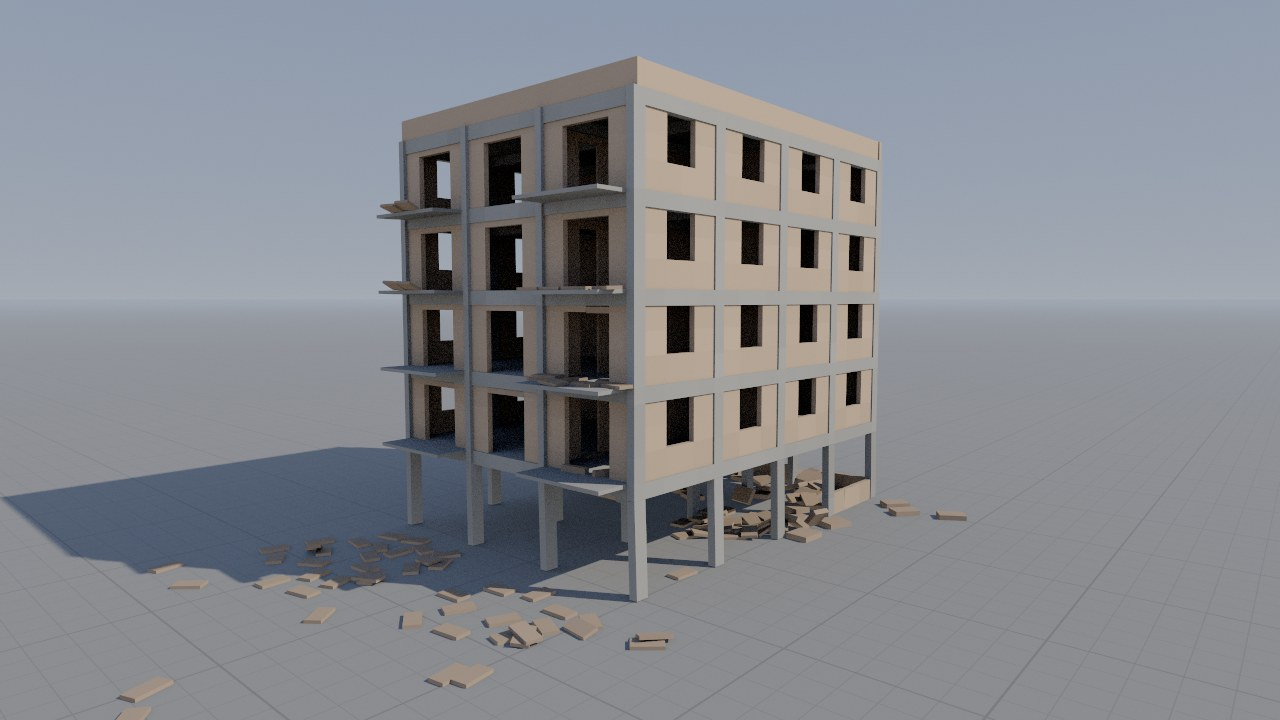
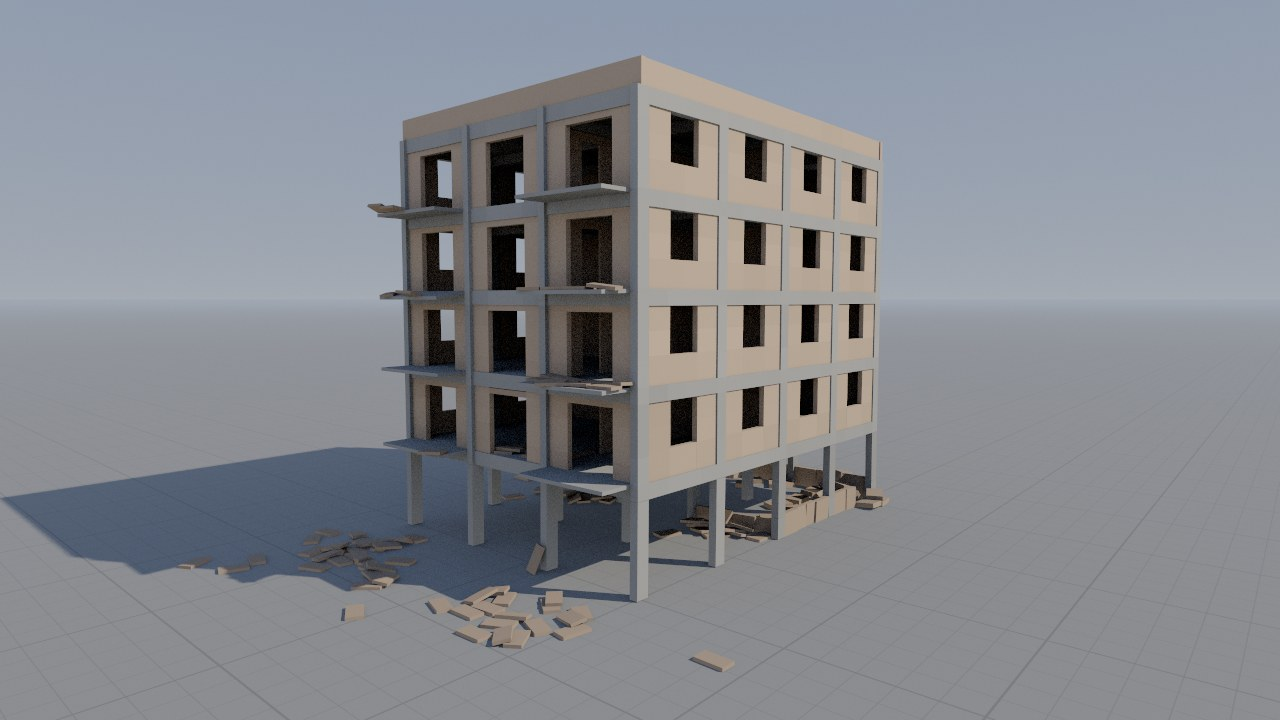
Yikim: firlayan tuglalar duzeltildi (ic ice gecme itme siniri 2 -> 0,5 m/s)
- Ezilen bagla kirise gomulen hafif blok, son lif kopunca 2 m/s sinirla itilip 3-4 m/s firliyordu
- Binadan firlayan tugla (1 m ustu, karede > 2 m/s): Pazarcik x1 93 -> 1, Antakya cokus oncesi 44 -> 0
- Testler 24/26, her kaydin sonucu ayni; tani araci test.kick, test.kick_min_y; phys.max_depenetration ayari
- README gorselleri yeni fizikle yeniden cekildi, tablolar guncellendi

Claude-Session: https://claude.ai/code/session_01YE74r9qkYvqsLDasqyGsSV

diff --git a/src/yikim/yikim_app.cpp b/src/yikim/yikim_app.cpp
@@ -25,6 +25,7 @@
 #include <cstdlib>
 #include <ctime>
 #include <filesystem>
+#include <set>
 #include <string>
 #include <vector>
 
@@ -75,6 +76,7 @@ struct YikimApp {
         world.params.muDynamic = cfg.f("phys.mu_dynamic", world.params.muDynamic);
         world.params.restitution = cfg.f("phys.restitution", world.params.restitution);
         world.params.dampAlpha = cfg.f("phys.damp_alpha", world.params.dampAlpha);
+        world.params.maxDepenetration = cfg.f("phys.max_depenetration", world.params.maxDepenetration);
     }
     void build() {
         if (cfg.values.count("scene") && cfg.values.at("scene") == "cerceve") {
@@ -243,6 +245,10 @@ static int runClip(YikimApp& app, double seconds, double still, unsigned spp, co
     float fastest = 0;
     int fastestBody = -1;
     double fastestT = 0, fastestY = 0;
+    std::vector<float3> kickPrev;
+    std::set<int> kickBodies, kickUpBodies;
+    int kicks = 0;
+    float kickUp = 0, kickSide = 0;
     for (int k = 0; k <= frames; ++k) {
         const double t = k * dt;
         app.events(t);
@@ -316,6 +322,48 @@ static int runClip(YikimApp& app, double seconds, double still, unsigned spp, co
                                     pi.n.x, pi.n.y, pi.n.z);
                 }
             prevVel = app.world.vel;
+        }
+        // diagnosis (test.kick = dv m/s): brick pieces whose speed relative to the ground jumps by more than dv in one
+        // frame (a throw, not a fall: gravity adds 0.16 m/s a frame). The first test.kick_n are shown with what touches them.
+        if (app.cfg.f("test.kick", 0.0f) > 0.0f) {
+            const float dvMin = app.cfg.f("test.kick", 0.0f);
+            if (kickPrev.size() == app.world.vel.size()) {
+                const float3 g0 = app.world.vel[0], g0p = kickPrev[0];
+                for (size_t i = 1; i < app.world.vel.size(); ++i) {
+                    if (app.world.kinematic[i] || app.world.info[i].tag != 3) continue;
+                    if (app.world.pos[i].y - app.world.pos[0].y < app.cfg.f("test.kick_min_y", 0.0f)) continue;   // e.g. not the debris on the ground
+                    const float3 vr = app.world.vel[i] - g0, vp = kickPrev[i] - g0p;
+                    const float gain = length(vr) - length(vp);
+                    kickUp = std::max(kickUp, vr.y);
+                    kickSide = std::max(kickSide, std::sqrt(vr.x * vr.x + vr.z * vr.z));
+                    if (vr.y > 2.0f) kickUpBodies.insert(int(i));
+                    if (gain <= dvMin) continue;
+                    kickBodies.insert(int(i));
+                    ++kicks;
+                    if (kicks > app.cfg.i("test.kick_n", 8)) continue;
+                    const int b = int(i);
+                    std::printf("FIRLAMA t=%.3f govde %d (%.0f kg) y %.2f: |v| %.2f -> %.2f m/s, v (%.2f %.2f %.2f) -> (%.2f %.2f %.2f), |w| %.1f rad/s\n", t, b,
+                                app.world.info[b].mass, app.world.pos[b].y, length(vp), length(vr), vp.x, vp.y, vp.z, vr.x, vr.y, vr.z,
+                                length(app.world.angVel[b]));
+                    std::vector<unsigned> fl;
+                    std::vector<float3> fo;
+                    app.world.fibres(fl, fo);
+                    size_t fi = 0;
+                    for (const InterfaceDesc& d : app.world.interfaceDescs) {
+                        int alive = 0;
+                        float fmax = 0;
+                        for (size_t q = 0; q < d.fibers.size(); ++q, ++fi)
+                            if (!(fl[fi] & 4u)) { ++alive; fmax = std::max(fmax, length(fo[fi])); }
+                        if ((d.a == b || d.b == b) && alive)
+                            std::printf("    arayuz %d-%d: %d canli lif, en buyuk kuvvet %.0f N\n", d.a, d.b, alive, fmax);
+                    }
+                    for (const PhysWorld::PatchInfo& pi : app.world.patchesOf(b))
+                        std::printf("    temas: govde %d (tur %d, %.0f kg, v (%.2f %.2f %.2f)), normal kuvvet %.0f N, n (%.2f %.2f %.2f)\n", pi.other,
+                                    pi.other > 0 ? app.world.info[pi.other].tag : -1, app.world.info[pi.other].mass, app.world.vel[pi.other].x - g0.x,
+                                    app.world.vel[pi.other].y - g0.y, app.world.vel[pi.other].z - g0.z, pi.force, pi.n.x, pi.n.y, pi.n.z);
+                }
+            }
+            kickPrev = app.world.vel;
         }
         // the fastest piece: a fall from the roof is ~17 m/s; much more is energy the solver made up
         for (size_t i = 1; i < app.world.vel.size(); ++i) {
@@ -395,6 +443,9 @@ static int runClip(YikimApp& app, double seconds, double still, unsigned spp, co
     std::printf("%d kare; fizik ort. %.2f ms/kare, goruntu ort. %.1f ms/kare\n", shots, physMs / std::max(1, frames), rendMs / std::max(1, shots));
     std::printf("cati: zemine gore en buyuk yatay oteleme %.3f m (t=%.2f s, yukseklige oran %.2f%%), en buyuk cokme %.3f m\n", maxDrift, tMaxDrift,
                 100.0 * maxDrift / roofY, maxDrop);
+    if (app.cfg.f("test.kick", 0.0f) > 0.0f)
+        std::printf("firlama (tugla, zemine gore, karede > %.1f m/s hizlanma): %d olay, %zu parca; yukari > 2 m/s: %zu parca; en buyuk yukari %.2f m/s, "
+                    "en buyuk yatay %.2f m/s\n", app.cfg.f("test.kick", 0.0f), kicks, kickBodies.size(), kickUpBodies.size(), kickUp, kickSide);
     {
         const double fall = std::sqrt(2.0 * 9.81 * (roofY + 1.0));
         std::printf("en hizli parca: %.1f m/s (govde %d, tur %d, t=%.2f s, y=%.1f m); catidan serbest dusus %.1f m/s\n", fastest, fastestBody,

diff --git a/src/yikim/phys.h b/src/yikim/phys.h
@@ -48,7 +48,10 @@ struct PhysParams {
     float muStatic = 0.7f, muDynamic = 0.6f;
     float restitution = 0.15f;
     float slop = 0.0005f;          // m of penetration tolerated (resting contacts do not chatter)
-    float maxDepenetration = 2.0f; // m/s: a deep overlap is resolved at most this fast (spawned or tunnelled bodies)
+    // m/s: a deep overlap is resolved at most this fast. 2 m/s threw light brick blocks out of the shaking building
+    // (a parapet's crushed bond lets it sink 2 cm into the beam, the overlap is pushed out when the last fibre goes;
+    // measured, Pazarcik x1: 116 blocks kicked by more than 2 m/s in a frame; 0.5: 15, mostly struck by falling debris)
+    float maxDepenetration = 0.5f;
     float relax = 1.0f;            // relaxation of a body's pairs (Jacobi between pairs)
     int interfaceIters = 2;        // colour passes over the interfaces per substep
     int contactIters = 4;          // per pair: averaged normal pass + patch static friction, repeated

diff --git a/src/yikim/yikim_tests.cpp b/src/yikim/yikim_tests.cpp
@@ -37,6 +37,7 @@ void applyParams(PhysWorld& w) {   // solver settings from scenes/yikim.cfg (and
     w.params.contactIters = g_cfg->i("phys.contact_iters", w.params.contactIters);
     w.params.interfaceIters = g_cfg->i("phys.interface_iters", w.params.interfaceIters);
     w.params.dampAlpha = g_cfg->f("phys.damp_alpha", w.params.dampAlpha);
+    w.params.maxDepenetration = g_cfg->f("phys.max_depenetration", w.params.maxDepenetration);
 }
 
 double kinetic(const PhysWorld& w) {

diff --git a/docs/yikim/DURUM.md b/docs/yikim/DURUM.md
@@ -3,6 +3,13 @@
 > Tek kaynak durum panosu. Plan ve Özcan'ın sözleri `docs/yikim/PLAN.md`'de.
 
 ## Şu an
+- **2026-10-02 · Fırlayan tuğlalar düzeltildi.** Özcan (kapanıştan sonra): *"Fizik kısmı tamam, çok iyi olmuş. [...]
+  Yıkılma fiziği hem çok gerçekçi hem de tutarlı hissettiriyor. Sadece arada hafif parçalar uçuşabiliyor, kolonlar
+  değil de kahverengimsi duvar gibi olanlar. Onlar her zaman değil bazen sallanırken düşmek yerine fırlıyor. Fizik
+  anlamında sadece onu düzeltebilirsin."* Sebep: iç içe geçmeyi itme hızı sınırı (2 m/s) hafif bloğu fırlatıyordu
+  (ayrıntı "Kapanışta öğrenilenler"). `phys.max_depenetration` 2 → **0,5 m/s**. Binadan fırlayan tuğla Pazarcık ×1'de
+  93 → 1, Antakya çöküş öncesi 44 → 0, Yarımca ×1 13 → 0, Bayraklı 3 → 0. Testler 24/26, her kaydın sonucu aynı.
+  Yan yana klip: `captures/yikim/y3_firlama_once_sonra_pazarcik.mp4`. Tanı aracı: `--set test.kick=2 test.kick_min_y=1`.
 - **2026-10-02 · 🏁 Sahne 3 kapandı.** Özcan (Y2 klibi üzerine): *"Tamam. Video yine iyi duruyor. Artık son eklemeleri,
   düzenlemeleri yapıp tamamlayabilirsin."* Kapanışta yapılanlar:
   - **Canlı pencere hızlandı: 28-30 → 55-75 fps** (1920×1080, 6 örnek; koşudan koşuya, fizik saniyede en çok 60 adım). Fizik bir sonraki adımı hesaplarken görüntü
@@ -139,6 +146,23 @@ taşıyıcı sistemin en üst parçaları (döşeme, kiriş, kolon başı).
 | 2023 Pazarcık ×1,25 | | tam göçme, çatı 12,4 m iner |
 | 2023 Pazarcık ×1,5 | | tam göçme, çatı 12,9 m iner |
 
+**Güncel (10-02, iç içe geçme itme sınırı 0,5 m/s; aynı ölçüm; son sütun: binadan fırlayan tuğla, yerden 1 m'nin
+üstünde bir karede 2 m/s'den fazla hızlanan, eski sınır → yeni):**
+
+| Kayıt | En büyük öteleme | Sonuç | Fırlayan tuğla |
+|---|---|---|---|
+| 2020 Bayraklı ×1 | %0,29 | ayakta | 3 → 0 |
+| 1999 İzmit ×1 | %0,26 | ayakta | |
+| 1999 Yarımca ×1 | %0,70 | ayakta | 13 → 0 |
+| 1999 Yarımca ×1,5 | | tam göçme, çatı 12,5 m iner | |
+| 2023 Antakya ×1 | | tam göçme, çatı 12,3 m iner | çöküşten önce (16,6 sn) 44 → 0 |
+| 2023 Pazarcık ×1 | %0,81 | ağır hasarla ayakta | 93 → 1 |
+| 2023 Pazarcık ×1,25 | | tam göçme, çatı 12,1 m iner | |
+| 2023 Pazarcık ×1,5 | | tam göçme, çatı 12,5 m iner | |
+
+Göçmelerde yerdeki enkazda hâlâ "fırlama" sayılıyor (Pazarcık ×1'de yerden 1 m'nin altında 15 parça): düşen blok yerde
+yatan bloğa çarpınca alttaki bir kenarı üstünde dönerek kalkıyor (tırmık gibi). Fiziksel olarak mümkün; dokunulmadı.
+
 Testler 24/26 (periyot 0,448 s, sönüm 0,053: değişmedi).
 
 Bina testi: sönüm (serbest titreşim, tepelerin logaritmik azalması, en küçük kareler) **0,053**; periyot 0,449 s
@@ -225,6 +249,14 @@ yumuşaklığı Y1'de doğal periyotla ölçülecek; gerekirse alt adım artar.
 - **Taşıyıcıyı ölç, üstünde duranı değil:** "çatı" en üstteki parçaların ortalamasıydı, yani tuğla korkuluk; savrulan
   korkuluk, ayakta duran binada "çatı 9,7 m çöktü" diye okundu. Kare bakınca bina ayaktaydı. Ölçü artık taşıyıcı
   sistemin en üst parçalarında.
+
+- **İç içe geçmeyi itmek bir şey fırlatmamalı (Özcan gördü, 10-02):** temas, derin iç içe geçmeyi alt adım başına
+  `maxDepenetration·h` kadar itiyor, hız geçişi de ayrılma hızını o sınıra kırpıyordu: 2 m/s. Ağır parçada fark
+  edilmez; 154 kg'lık korkuluk bloğu kirişe ~2 cm gömülüyor (bağlı çiftte temas ancak `BOND_OVERLAP` = 2 cm'den sonra
+  devrede, tuğla bağı ezilirken blok o kadar batıyor), son lif kopunca bağ kalkıyor ve gömülme bir anda itiliyor:
+  blok 3-4 m/s ile yukarı, dönerek. Tanıdaki iz: temas kuvveti 760-880 kN = 154 kg × 2 m/s / h (sınırın ta kendisi).
+  0,5 m/s'de gömülme ~3 karede çözülür, oluşan hız gözle görülmez; testler (yığın, düşme, gömülme, enerji) ve bina
+  sonuçları değişmedi. 1 m/s ara değeri Pazarcık ×1'i göçürdü (eşik kaotik), 0,25 ile 0,5 arasında fark küçük.
 
 ## Deprem kayıtları (`assets/deprem/`, `src/yikim/quake.*`)
 ESM (esm-db.eu, işlenmiş MP, hesapsız indirilebilir) ve AFAD TADAS (misafir girişi). İvme cm/s², hepsi ayrıştırılıp

diff --git a/README.md b/README.md
@@ -185,12 +185,12 @@ What the building does (roof drift relative to the ground, deterministic):
 | Record | Peak ground acceleration | Result |
 | --- | --- | --- |
 | 2020 Bayraklı ×1 | 0.12 g | stands, drift 0.29 % |
-| 1999 İzmit ×1 | 0.25 g | stands, 0.28 % |
-| 1999 Yarımca ×1 | 0.34 g | stands, 0.91 % |
-| 1999 Yarımca ×1.5 | | soft-storey collapse, the roof comes down 13.0 m |
-| 2023 Antakya ×1 | 0.67 g | collapses, the roof comes down 12.8 m |
-| 2023 Pazarcık ×1 | 2.25 g (one component) | stands, heavily damaged: 1.34 % drift that stays, parapets and infill thrown off |
-| 2023 Pazarcık ×1.25 | | collapses, the roof comes down 12.4 m |
+| 1999 İzmit ×1 | 0.25 g | stands, 0.26 % |
+| 1999 Yarımca ×1 | 0.34 g | stands, 0.70 % |
+| 1999 Yarımca ×1.5 | | soft-storey collapse, the roof comes down 12.5 m |
+| 2023 Antakya ×1 | 0.67 g | collapses, the roof comes down 12.3 m |
+| 2023 Pazarcık ×1 | 2.25 g (one component) | stands, heavily damaged: drift 0.81 %, parapets and much of the infill fall |
+| 2023 Pazarcık ×1.25 | | collapses, the roof comes down 12.1 m |
 
 Pazarcık ×1 sits right at the threshold: it brought the building down until a modelling bug was fixed at the very end
 (below), and it stands after it. A building at its limit is chaotic; that is why the solver had to become
@@ -221,6 +221,12 @@ Decisions worth reading:
   brick parapets. A piece's own steel ratio (the balconies') leaked into the brick it touched: bars with zero
   strength that still stiffened the parapet's base 1.8 times, and raised the force that cracks it by as much. No test
   and no clip had shown it. Fixing it moved Pazarcık ×1 from collapse to standing.
+- **Pushing an overlap out must not throw things.** Overlaps were pushed out at up to 2 m/s. A brick parapet's
+  crushing bond lets it sink a couple of centimetres into the beam; when its last fibre went, the overlap was pushed
+  out at once and a 150 kg block left upwards at 3 to 4 m/s (Özcan saw it: light pieces flying instead of falling).
+  At 0.5 m/s, bricks thrown from the building (more than 2 m/s gained in one frame, above 1 m) went from 93 to 1
+  under Pazarcık and from 44 to 0 before Antakya's collapse; the tests and what each record does to the building
+  stayed the same.
 - **Measure the structure, not what stands on it.** "Roof drift" was averaged over the highest pieces, which were the
   brick parapet; a parapet thrown off read as the roof falling 9.7 m from a building still standing.
 

diff --git a/README.tr.md b/README.tr.md
@@ -181,12 +181,12 @@ Binanın yaptığı (çatının zemine göre en büyük ötelemesi, deterministi
 | Kayıt | Yatay tepe ivme | Sonuç |
 | --- | --- | --- |
 | 2020 Bayraklı ×1 | 0,12 g | ayakta, öteleme %0,29 |
-| 1999 İzmit ×1 | 0,25 g | ayakta, %0,28 |
-| 1999 Yarımca ×1 | 0,34 g | ayakta, %0,91 |
-| 1999 Yarımca ×1,5 | | yumuşak kat göçmesi, çatı 13,0 m iner |
-| 2023 Antakya ×1 | 0,67 g | göçer, çatı 12,8 m iner |
-| 2023 Pazarcık ×1 | 2,25 g (bir bileşen) | ağır hasarla ayakta: kalıcı %1,34 öteleme, korkuluklar ve dolgu duvarlar savrulur |
-| 2023 Pazarcık ×1,25 | | göçer, çatı 12,4 m iner |
+| 1999 İzmit ×1 | 0,25 g | ayakta, %0,26 |
+| 1999 Yarımca ×1 | 0,34 g | ayakta, %0,70 |
+| 1999 Yarımca ×1,5 | | yumuşak kat göçmesi, çatı 12,5 m iner |
+| 2023 Antakya ×1 | 0,67 g | göçer, çatı 12,3 m iner |
+| 2023 Pazarcık ×1 | 2,25 g (bir bileşen) | ağır hasarla ayakta: öteleme %0,81, korkuluklar ve dolgunun çoğu dökülür |
+| 2023 Pazarcık ×1,25 | | göçer, çatı 12,1 m iner |
 
 Pazarcık ×1 tam eşikte: en sonda düzeltilen bir modelleme hatasına kadar binayı yıkıyordu (aşağıda), düzeltmeden
 sonra bina ayakta. Sınırındaki yapı kaotiktir; bu sonuçların bir şey ifade etmesi için çözücünün önce deterministik
@@ -214,6 +214,11 @@ Okunmaya değer kararlar:
   çıkıyordu. Bir parçanın kendi donatı oranı (balkonların) değdiği tuğlaya sızıyordu: dayanımı sıfır ama korkuluğun
   tabanını 1,8 kat katılaştıran, çatlatan kuvveti de o kadar büyüten demirler. Hiçbir test ve klip göstermemişti.
   Düzeltmek Pazarcık ×1'i göçmeden ayakta kalmaya taşıdı.
+- **İç içe geçmeyi itmek bir şey fırlatmamalı.** İç içe geçmeler 2 m/s'ye kadar hızla dışarı itiliyordu. Tuğla
+  korkuluğun ezilen bağı onu kirişe birkaç santim gömüyor; son lif kopunca gömülme bir anda itiliyor, 150 kg'lık blok
+  3-4 m/s ile yukarı fırlıyordu (Özcan gördü: hafif parçalar düşmek yerine fırlıyor). 0,5 m/s'de binadan fırlayan
+  tuğla (yerden 1 m'nin üstünde, bir karede 2 m/s'den fazla hızlanan) Pazarcık'ta 93'ten 1'e, Antakya'nın çöküşünden
+  önce 44'ten 0'a indi; testler ve her kaydın binaya yaptığı değişmedi.
 - **Taşıyıcıyı ölç, üstünde duranı değil.** "Çatı ötelemesi" en üstteki parçaların ortalamasıydı, onlar da tuğla
   korkuluktu; savrulan korkuluk, ayakta duran binada çatının 9,7 m düştüğü diye okundu.
 

diff --git a/GOSTERI.md b/GOSTERI.md
@@ -15,7 +15,7 @@
 >   2023, 2 Antakya 2023, 3 Yarımca 1999, 4 İzmit 1999, 5 Bayraklı 2020) · **+ / -** şiddet ¼ adımla · **T** ağır çekim
 >   (×1, ×0,25, ×0,1) · **P** zamanı durdur · **B** donatı demirlerini göster/gizle · **R** binayı baştan kur · **F12**
 >   ekran görüntüsü · **H** yazıları gizle · **Esc** çıkış. Dene: Antakya ×1 (bina göçer), Pazarcık ×1 (eşikte: ağır
->   hasarla ayakta kalır, korkuluklar ve duvarlar savrulur; **+** ile ×1,25'te göçer), Yarımca ×1 ile ×1,5 (aynı bina,
+>   hasarla ayakta kalır, korkuluklar ve duvarlar dökülür; **+** ile ×1,25'te göçer), Yarımca ×1 ile ×1,5 (aynı bina,
 >   iki son); zemin kat kolonlarını tek tek patlat; çöküşü **T** ile ağır çekimde izle, kırık kolon uçlarına uçup
 >   demirlere yakından bak.
 
